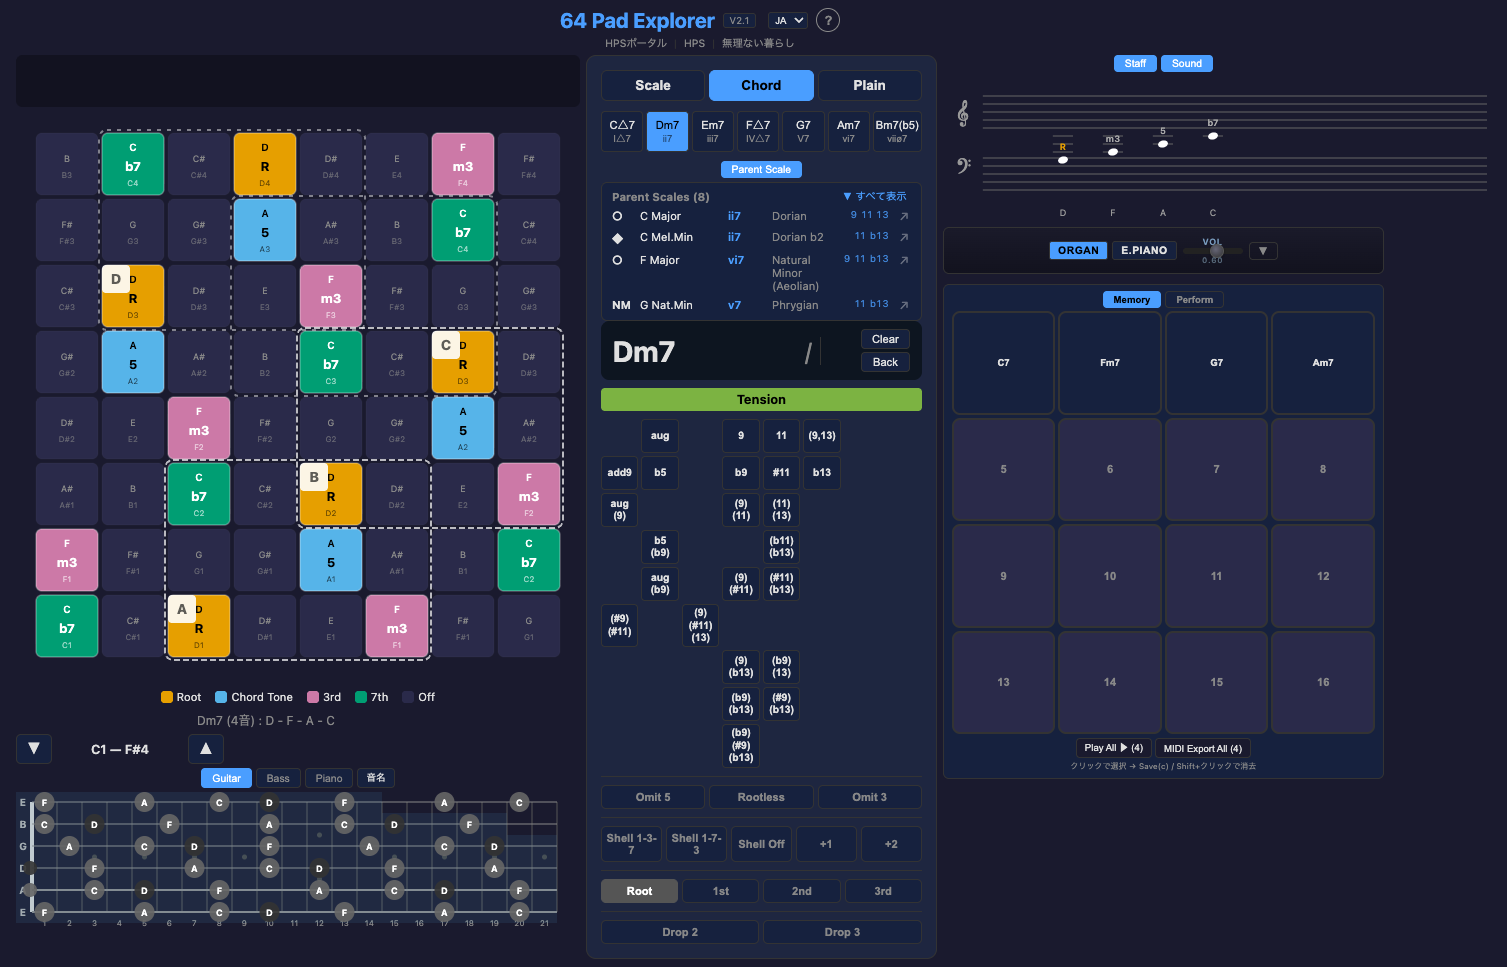
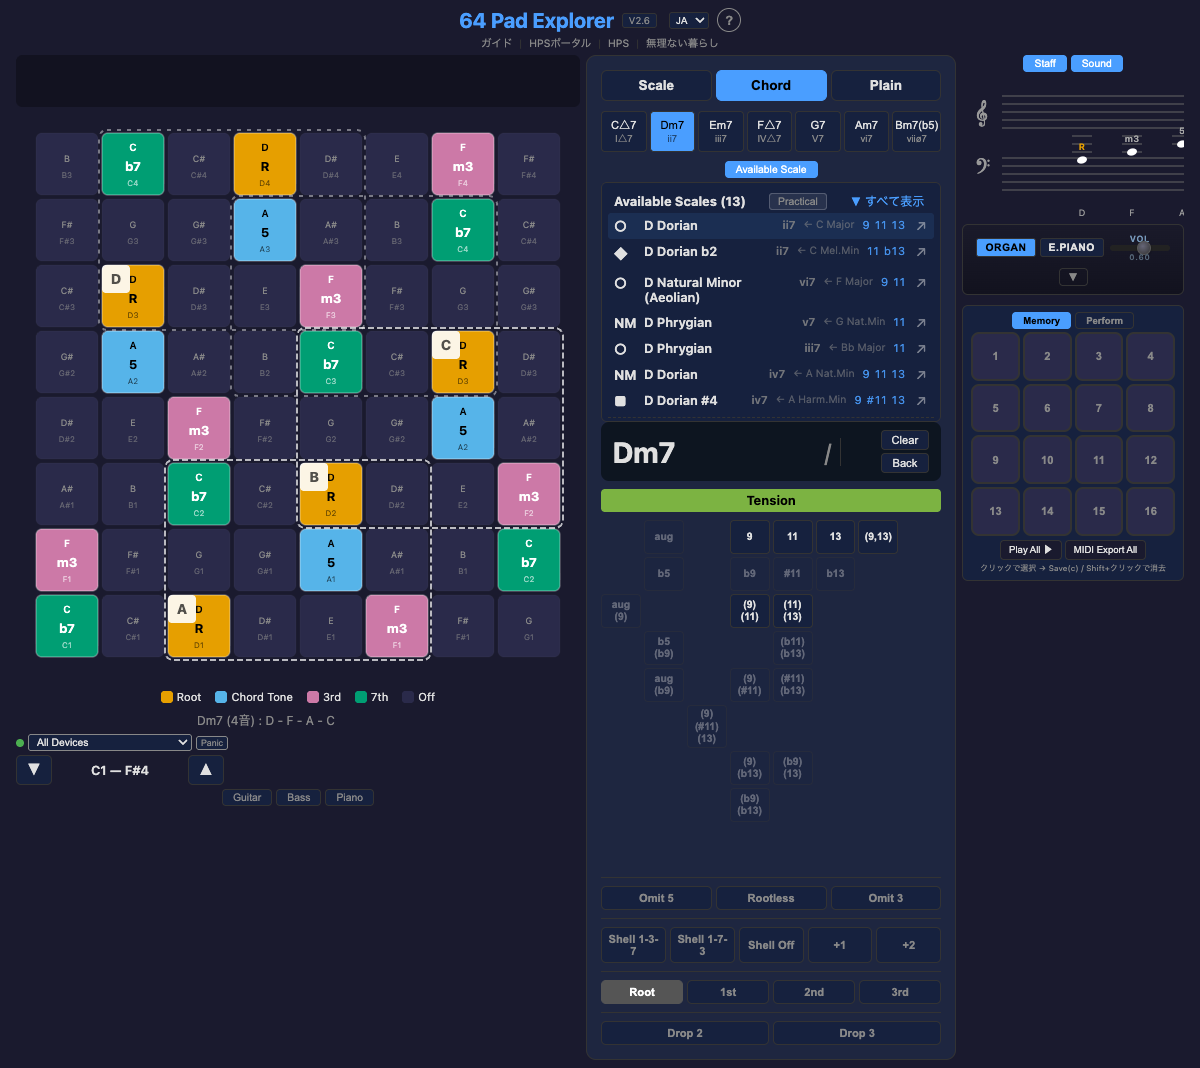
Guide: update screenshot, wording, and version to V2.6
- Replace Available Scale screenshot with Dm7 + D Dorian overlay
- uc5: "即興演奏の練習" → "コードを叩いて進行を確認"
- uc6: "パッドに転写" → "パッドで確認"
- Footer V2.5 → V2.6, cache busts v2.5.0 → v2.6.0
- All 9 language files updated with new translations

diff --git a/lang-ja.js b/lang-ja.js
@@ -195,9 +195,9 @@ I18N.addLang('ja', {
     uc4_a: '\u2192 Available Scale\u30D1\u30CD\u30EB\u3067\u9006\u5F15\u304D\u3002Practical/Diatonic\u30BD\u30FC\u30C8\u3067\u5B9F\u7528\u6027\u9806\u306B\u3082\u4E26\u3079\u66FF\u3048\u53EF\u80FD',
     uc7_q: '\u300C\u8EE2\u8ABF\u5148\u306E\u30AD\u30FC\u3092\u63A2\u3057\u305F\u3044\uFF08\u30D4\u30DC\u30C3\u30C8\u30B3\u30FC\u30C9\uFF09\u300D',
     uc7_a: '\u2192 <span class="mode-badge chord">Chord</span> \u30E2\u30FC\u30C9\u3067\u624B\u52D5\u30B3\u30FC\u30C9\u5165\u529B\u3002\u30C0\u30A4\u30A2\u30C8\u30CB\u30C3\u30AF\u30D0\u30FC\u304C\u6D88\u3048\u3001Available Scale\u304C\u305D\u306E\u30B3\u30FC\u30C9\u306E\u5C5E\u3057\u3046\u308B\u5168\u30AD\u30FC\u3092\u8868\u793A\u3057\u307E\u3059',
-    uc5_q: '\u300C\u30D1\u30C3\u30C9\u3067\u5373\u8208\u6F14\u594F\u306E\u7DF4\u7FD2\u304C\u3057\u305F\u3044\u300D',
-    uc5_a: '\u2192 Perform\u30E2\u30FC\u30C9\u3067\u30E1\u30E2\u30EA\u30FC\u30B9\u30ED\u30C3\u30C8\u306E\u30B3\u30FC\u30C9\u309216\u30D1\u30C3\u30C9\u914D\u7F6E\u3002\u30AD\u30FC\u30DC\u30FC\u30C9\u307E\u305F\u306FMIDI\u30D1\u30C3\u30C9\u3067\u6F14\u594F',
-    uc6_q: '\u300C\u30AE\u30BF\u30FC\u3067\u62BC\u3055\u3048\u305F\u30B3\u30FC\u30C9\u3092\u30D1\u30C3\u30C9\u306B\u8EE2\u5199\u3057\u305F\u3044\u300D',
+    uc5_q: '\u300C\u30B3\u30FC\u30C9\u3092\u53E9\u3044\u3066\u9032\u884C\u3092\u78BA\u8A8D\u3057\u305F\u3044\u300D',
+    uc5_a: '\u2192 \u30E1\u30E2\u30EA\u30FC\u30B9\u30ED\u30C3\u30C8\u306B\u30B3\u30FC\u30C9\u3092\u4FDD\u5B58\u3057\u3066\u3001MIDI\u30B3\u30F3\u30C8\u30ED\u30FC\u30E9\u30FC\u3084PC\u30AD\u30FC\u30DC\u30FC\u30C9\u3067\u53E9\u3044\u3066\u307F\u3066\u304F\u3060\u3055\u3044',
+    uc6_q: '\u300C\u30AE\u30BF\u30FC\u3067\u62BC\u3055\u3048\u305F\u30B3\u30FC\u30C9\u3092\u30D1\u30C3\u30C9\u3067\u78BA\u8A8D\u3057\u305F\u3044\u300D',
     uc6_a: '\u2192 \u30AE\u30BF\u30FC\u30D5\u30EC\u30C3\u30C8\u30DC\u30FC\u30C9\u3092\u30AF\u30EA\u30C3\u30AF\u3057\u3066\u5165\u529B \u2192 \u30D1\u30C3\u30C9\u306B\u81EA\u52D5\u8868\u793A \u2192 \u30B3\u30FC\u30C9\u540D\u3082\u5224\u5B9A',
     quickstart: '\u30AF\u30A4\u30C3\u30AF\u30B9\u30BF\u30FC\u30C8',
     qs_modes: '3\u3064\u306E\u30E2\u30FC\u30C9',
@@ -211,7 +211,7 @@ I18N.addLang('ja', {
     qs_shortcuts: '\u30AD\u30FC\u30DC\u30FC\u30C9\u30B7\u30E7\u30FC\u30C8\u30AB\u30C3\u30C8',
     qs_shortcuts_desc: '<kbd>?</kbd> \u30AD\u30FC\u3067\u5168\u30B7\u30E7\u30FC\u30C8\u30AB\u30C3\u30C8\u4E00\u89A7\u304C\u898B\u3089\u308C\u307E\u3059\u3002<br><kbd>1</kbd>\u301C<kbd>7</kbd> \u3067\u30C0\u30A4\u30A2\u30C8\u30CB\u30C3\u30AF\u30B3\u30FC\u30C9\u9078\u629E\u3001<kbd>\u2191</kbd><kbd>\u2193</kbd> \u3067\u8EE2\u56DE\u5F62\u5207\u66FF\u3001<kbd>\u2190</kbd><kbd>\u2192</kbd> \u3067\u534A\u97F3\u79FB\u52D5\u3002<br>Perform\u30E2\u30FC\u30C9\u3067\u306F <kbd>1234</kbd>/<kbd>qwer</kbd>/<kbd>asdf</kbd>/<kbd>zxcv</kbd> \u306E4\u00D74\u30B0\u30EA\u30C3\u30C9\u3067\u6F14\u594F\u3067\u304D\u307E\u3059\u3002',
     footer_open: '64 Pad Explorer \u3092\u958B\u304F',
-    footer_version: '64 Pad Explorer V2.5 \u2014 HPS (Hardcore Pad Style)',
+    footer_version: '64 Pad Explorer V2.6 \u2014 HPS (Hardcore Pad Style)',
     blog_more: '\u30D6\u30ED\u30B0\u3067\u3082\u3063\u3068\u8A73\u3057\u304F \u2192',
   },
 });

diff --git a/guide.html b/guide.html
@@ -14,7 +14,7 @@
   gtag('js', new Date());
   gtag('config', 'G-ZWTBLDWP7P');
 </script>
-<link rel="stylesheet" href="style.css?v=2.5.0">
+<link rel="stylesheet" href="style.css?v=2.6.0">
 <style>
 /* Guide-specific styles */
 .guide-container {
@@ -338,11 +338,11 @@
       <span class="usecase-a" data-i18n="guide.uc7_a">→ <span class="mode-badge chord">Chord</span> モードで手動コード入力。ダイアトニックバーが消え、Available Scaleがそのコードの属しうる全キーを表示します</span>
     </li>
     <li>
-      <span class="usecase-q" data-i18n="guide.uc5_q">「パッドで即興演奏の練習がしたい」</span>
-      <span class="usecase-a" data-i18n="guide.uc5_a">→ Performモードでメモリースロットのコードを16パッド配置。キーボードまたはMIDIパッドで演奏</span>
+      <span class="usecase-q" data-i18n="guide.uc5_q">「コードを叩いて進行を確認したい」</span>
+      <span class="usecase-a" data-i18n="guide.uc5_a">→ メモリースロットにコードを保存して、MIDIコントローラーやPCキーボードで叩いてみてください</span>
     </li>
     <li>
-      <span class="usecase-q" data-i18n="guide.uc6_q">「ギターで押さえたコードをパッドに転写したい」</span>
+      <span class="usecase-q" data-i18n="guide.uc6_q">「ギターで押さえたコードをパッドで確認したい」</span>
       <span class="usecase-a" data-i18n="guide.uc6_a">→ ギターフレットボードをクリックして入力 → パッドに自動表示 → コード名も判定</span>
     </li>
   </ul>
@@ -387,22 +387,22 @@
     <a href="https://murinaikurashi.com/" data-i18n="header.blog">無理ない暮らし</a>
   </div>
   <a href="https://murinaikurashi.com/" class="blog-link" data-i18n="guide.blog_more">ブログでもっと詳しく →</a>
-  <p style="margin-top:12px;" data-i18n="guide.footer_version">64 Pad Explorer V2.5 — HPS (Hardcore Pad Style)</p>
+  <p style="margin-top:12px;" data-i18n="guide.footer_version">64 Pad Explorer V2.6 — HPS (Hardcore Pad Style)</p>
 </footer>
 
 </div>
 
 <!-- i18n (engine + language files) -->
-<script src="i18n.js?v=2.5.0"></script>
-<script src="lang-en.js?v=2.5.0"></script>
-<script src="lang-ja.js?v=2.5.0"></script>
-<script src="lang-zh.js?v=2.5.0"></script>
-<script src="lang-es.js?v=2.5.0"></script>
-<script src="lang-fr.js?v=2.5.0"></script>
-<script src="lang-pt.js?v=2.5.0"></script>
-<script src="lang-de.js?v=2.5.0"></script>
-<script src="lang-ko.js?v=2.5.0"></script>
-<script src="lang-it.js?v=2.5.0"></script>
+<script src="i18n.js?v=2.6.0"></script>
+<script src="lang-en.js?v=2.6.0"></script>
+<script src="lang-ja.js?v=2.6.0"></script>
+<script src="lang-zh.js?v=2.6.0"></script>
+<script src="lang-es.js?v=2.6.0"></script>
+<script src="lang-fr.js?v=2.6.0"></script>
+<script src="lang-pt.js?v=2.6.0"></script>
+<script src="lang-de.js?v=2.6.0"></script>
+<script src="lang-ko.js?v=2.6.0"></script>
+<script src="lang-it.js?v=2.6.0"></script>
 <script>
   // Initialize i18n for guide page
   document.addEventListener('DOMContentLoaded', function() {

diff --git a/lang-ko.js b/lang-ko.js
@@ -195,9 +195,9 @@ I18N.addLang('ko', {
     uc4_a: '\u2192 Available Scale \uD328\uB110\uC5D0\uC11C \uC5ED\uBC29\uD5A5 \uAC80\uC0C9. Practical/Diatonic \uC815\uB82C \uC804\uD658 \uAC00\uB2A5',
     uc7_q: '\u201C\uC804\uC870\uB97C \uC704\uD55C \uD53C\uBC97 \uCF54\uB4DC\uB97C \uCC3E\uACE0 \uC2F6\uC5B4\uC694\u201D',
     uc7_a: '\u2192 <span class="mode-badge chord">Chord</span> \uBAA8\uB4DC\uC5D0\uC11C \uCF54\uB4DC\uB97C \uC218\uB3D9 \uC785\uB825. \uB2E4\uC774\uC544\uD1A0\uB2C9 \uBC14\uAC00 \uC0AC\uB77C\uC9C0\uACE0 Available Scale\uC774 \uD574\uB2F9 \uCF54\uB4DC\uAC00 \uC18D\uD560 \uC218 \uC788\uB294 \uBAA8\uB4E0 \uD0A4\uB97C \uD45C\uC2DC\uD569\uB2C8\uB2E4',
-    uc5_q: '\u201C\uD328\uB4DC\uC5D0\uC11C \uC989\uD765 \uC5F0\uC2B5\uC744 \uD558\uACE0 \uC2F6\uC5B4\uC694\u201D',
-    uc5_a: '\u2192 Perform Mode\uC5D0\uC11C Memory \uCF54\uB4DC\uB97C 16\uAC1C \uD328\uB4DC\uC5D0 \uBC30\uCE58. \uD0A4\uBCF4\uB4DC \uB610\uB294 MIDI \uD328\uB4DC\uB85C \uC5F0\uC8FC',
-    uc6_q: '\u201C\uAE30\uD0C0 \uCF54\uB4DC\uB97C \uD328\uB4DC\uB85C \uC62E\uAE30\uACE0 \uC2F6\uC5B4\uC694\u201D',
+    uc5_q: '\u201C\uCF54\uB4DC \uC9C4\uD589\uC744 \uCCD0\uC11C \uD655\uC778\uD558\uACE0 \uC2F6\uC5B4\uC694\u201D',
+    uc5_a: '\u2192 \uBA54\uBAA8\uB9AC \uC2AC\uB86F\uC5D0 \uCF54\uB4DC\uB97C \uC800\uC7A5\uD558\uACE0, MIDI \uCEE8\uD2B8\uB864\uB7EC\uB098 PC \uD0A4\uBCF4\uB4DC\uB85C \uCCD0\uBCF4\uC138\uC694',
+    uc6_q: '\u201C\uAE30\uD0C0 \uCF54\uB4DC\uB97C \uD328\uB4DC\uC5D0\uC11C \uD655\uC778\uD558\uACE0 \uC2F6\uC5B4\uC694\u201D',
     uc6_a: '\u2192 \uAE30\uD0C0 \uC9C0\uD310\uC744 \uD074\uB9AD\uD558\uC5EC \uC785\uB825 \u2192 \uC790\uB3D9\uC73C\uB85C \uD328\uB4DC\uC5D0 \uD45C\uC2DC \u2192 \uCF54\uB4DC\uBA85 \uD310\uBCC4',
     quickstart: '\uBE60\uB978 \uC2DC\uC791',
     qs_modes: '3\uAC00\uC9C0 \uBAA8\uB4DC',
@@ -211,7 +211,7 @@ I18N.addLang('ko', {
     qs_shortcuts: '\uD0A4\uBCF4\uB4DC \uB2E8\uCD95\uD0A4',
     qs_shortcuts_desc: '<kbd>?</kbd>\uB97C \uB204\uB974\uBA74 \uC804\uCCB4 \uB2E8\uCD95\uD0A4 \uBAA9\uB85D\uC774 \uD45C\uC2DC\uB429\uB2C8\uB2E4.<br><kbd>1</kbd>\u2013<kbd>7</kbd> \uB2E4\uC774\uC544\uD1A0\uB2C9 \uCF54\uB4DC, <kbd>\u2191</kbd><kbd>\u2193</kbd> Inversions, <kbd>\u2190</kbd><kbd>\u2192</kbd> \uBC18\uC74C \uC774\uB3D9.<br>Perform Mode\uC5D0\uC11C\uB294 <kbd>1234</kbd>/<kbd>qwer</kbd>/<kbd>asdf</kbd>/<kbd>zxcv</kbd>\uB97C 4\u00D74 \uADF8\uB9AC\uB4DC\uB85C \uC0AC\uC6A9.',
     footer_open: '64 Pad Explorer \uC5F4\uAE30',
-    footer_version: '64 Pad Explorer V2.5 \u2014 HPS (Hardcore Pad Style)',
+    footer_version: '64 Pad Explorer V2.6 \u2014 HPS (Hardcore Pad Style)',
     blog_more: '\uBE14\uB85C\uADF8\uC5D0\uC11C \uB354 \uC54C\uC544\uBCF4\uAE30 \u2192',
   },
 });

diff --git a/lang-fr.js b/lang-fr.js
@@ -195,9 +195,9 @@ I18N.addLang('fr', {
     uc4_a: '\u2192 Recherche invers\u00E9e dans le panneau Available Scale. Basculez entre tri Practical/Diatonic',
     uc7_q: '\u00AB Je veux trouver des accords pivot pour la modulation \u00BB',
     uc7_a: '\u2192 Saisissez un accord manuellement en mode <span class="mode-badge chord">Chord</span>. La barre diatonique dispara\u00EEt et Available Scale affiche toutes les tonalit\u00E9s possibles',
-    uc5_q: '\u00AB Je veux m\u0027entra\u00EEner \u00E0 improviser sur les pads \u00BB',
-    uc5_a: '\u2192 Disposez les accords en m\u00E9moire sur 16 pads en Perform mode. Jouez via clavier ou pads MIDI',
-    uc6_q: '\u00AB Je veux transf\u00E9rer un accord de guitare sur les pads \u00BB',
+    uc5_q: '\u00AB Je veux v\u00E9rifier des progressions d\u0027accords en les jouant \u00BB',
+    uc5_a: '\u2192 Sauvegardez les accords dans les slots m\u00E9moire, puis jouez-les avec un contr\u00F4leur MIDI ou le clavier du PC',
+    uc6_q: '\u00AB Je veux v\u00E9rifier un accord de guitare sur les pads \u00BB',
     uc6_a: '\u2192 Cliquez sur le manche de guitare pour saisir \u2192 Affichage automatique sur les pads \u2192 Nom d\u0027accord d\u00E9tect\u00E9',
     quickstart: 'D\u00E9marrage rapide',
     qs_modes: '3 modes',
@@ -211,7 +211,7 @@ I18N.addLang('fr', {
     qs_shortcuts: 'Raccourcis clavier',
     qs_shortcuts_desc: 'Appuyez sur <kbd>?</kbd> pour la liste compl\u00E8te des raccourcis.<br><kbd>1</kbd>\u2013<kbd>7</kbd> pour les accords diatoniques, <kbd>\u2191</kbd><kbd>\u2193</kbd> pour les inversions, <kbd>\u2190</kbd><kbd>\u2192</kbd> pour le mouvement chromatique.<br>En Perform mode, utilisez <kbd>1234</kbd>/<kbd>qwer</kbd>/<kbd>asdf</kbd>/<kbd>zxcv</kbd> comme grille 4\u00D74.',
     footer_open: 'Ouvrir 64 Pad Explorer',
-    footer_version: '64 Pad Explorer V2.5 \u2014 HPS (Hardcore Pad Style)',
+    footer_version: '64 Pad Explorer V2.6 \u2014 HPS (Hardcore Pad Style)',
     blog_more: 'En savoir plus sur le blog \u2192',
   },
 });

diff --git a/lang-de.js b/lang-de.js
@@ -195,9 +195,9 @@ I18N.addLang('de', {
     uc4_a: '\u2192 R\u00FCckw\u00E4rtssuche im Available Scale-Panel. Zwischen Practical/Diatonic-Sortierung umschalten',
     uc7_q: '\u201EIch m\u00F6chte Pivot-Akkorde f\u00FCr die Modulation finden\u201C',
     uc7_a: '\u2192 Akkord manuell im <span class="mode-badge chord">Chord</span>-Modus eingeben. Die diatonische Leiste verschwindet und Available Scale zeigt alle m\u00F6glichen Tonarten',
-    uc5_q: '\u201EIch m\u00F6chte auf den Pads improvisieren \u00FCben\u201C',
-    uc5_a: '\u2192 Memory-Akkorde auf 16 Pads im Perform Mode anordnen. Per Tastatur oder MIDI-Pads spielen',
-    uc6_q: '\u201EIch m\u00F6chte einen Gitarrenakkord auf die Pads \u00FCbertragen\u201C',
+    uc5_q: '\u201EIch m\u00F6chte Akkordfolgen durch Spielen \u00FCberpr\u00FCfen\u201C',
+    uc5_a: '\u2192 Akkorde in Memory-Slots speichern, dann mit MIDI-Controller oder PC-Tastatur spielen',
+    uc6_q: '\u201EIch m\u00F6chte Gitarrenakkorde auf den Pads \u00FCberpr\u00FCfen\u201C',
     uc6_a: '\u2192 Gitarrengriffbrett anklicken zur Eingabe \u2192 Automatisch auf Pads dargestellt \u2192 Akkordname erkannt',
     quickstart: 'Schnellstart',
     qs_modes: '3 Modi',
@@ -211,7 +211,7 @@ I18N.addLang('de', {
     qs_shortcuts: 'Tastenk\u00FCrzel',
     qs_shortcuts_desc: '<kbd>?</kbd> dr\u00FCcken f\u00FCr die vollst\u00E4ndige Tastenk\u00FCrzel-Liste.<br><kbd>1</kbd>\u2013<kbd>7</kbd> f\u00FCr diatonische Akkorde, <kbd>\u2191</kbd><kbd>\u2193</kbd> f\u00FCr Inversions, <kbd>\u2190</kbd><kbd>\u2192</kbd> f\u00FCr chromatische Bewegung.<br>Im Perform Mode <kbd>1234</kbd>/<kbd>qwer</kbd>/<kbd>asdf</kbd>/<kbd>zxcv</kbd> als 4\u00D74-Raster verwenden.',
     footer_open: '64 Pad Explorer \u00F6ffnen',
-    footer_version: '64 Pad Explorer V2.5 \u2014 HPS (Hardcore Pad Style)',
+    footer_version: '64 Pad Explorer V2.6 \u2014 HPS (Hardcore Pad Style)',
     blog_more: 'Mehr erfahren im Blog \u2192',
   },
 });

diff --git a/lang-pt.js b/lang-pt.js
@@ -195,9 +195,9 @@ I18N.addLang('pt', {
     uc4_a: '\u2192 Pesquisa inversa no painel Available Scale. Alterne entre ordena\u00E7\u00E3o Practical/Diatonic',
     uc7_q: '\u00AB Quero encontrar acordes pivot para modula\u00E7\u00E3o \u00BB',
     uc7_a: '\u2192 Insira um acorde manualmente no modo <span class="mode-badge chord">Chord</span>. A barra diat\u00F3nica desaparece e Available Scale mostra todas as tonalidades poss\u00EDveis',
-    uc5_q: '\u00AB Quero praticar improvisa\u00E7\u00E3o nos pads \u00BB',
-    uc5_a: '\u2192 Disponha os acordes em mem\u00F3ria em 16 pads no Perform mode. Toque via teclado ou pads MIDI',
-    uc6_q: '\u00AB Quero transferir um acorde de guitarra para os pads \u00BB',
+    uc5_q: '\u00AB Quero conferir progress\u00F5es de acordes tocando-os \u00BB',
+    uc5_a: '\u2192 Salve os acordes nos slots de mem\u00F3ria e toque-os com um controlador MIDI ou teclado do PC',
+    uc6_q: '\u00AB Quero conferir acordes de guitarra nos pads \u00BB',
     uc6_a: '\u2192 Clique no bra\u00E7o da guitarra para inserir \u2192 Exibi\u00E7\u00E3o autom\u00E1tica nos pads \u2192 Nome do acorde detetado',
     quickstart: 'In\u00EDcio r\u00E1pido',
     qs_modes: '3 modos',
@@ -211,7 +211,7 @@ I18N.addLang('pt', {
     qs_shortcuts: 'Atalhos de teclado',
     qs_shortcuts_desc: 'Prima <kbd>?</kbd> para a lista completa de atalhos.<br><kbd>1</kbd>\u2013<kbd>7</kbd> para acordes diat\u00F3nicos, <kbd>\u2191</kbd><kbd>\u2193</kbd> para invers\u00F5es, <kbd>\u2190</kbd><kbd>\u2192</kbd> para movimento crom\u00E1tico.<br>No Perform mode, use <kbd>1234</kbd>/<kbd>qwer</kbd>/<kbd>asdf</kbd>/<kbd>zxcv</kbd> como grelha 4\u00D74.',
     footer_open: 'Abrir 64 Pad Explorer',
-    footer_version: '64 Pad Explorer V2.5 \u2014 HPS (Hardcore Pad Style)',
+    footer_version: '64 Pad Explorer V2.6 \u2014 HPS (Hardcore Pad Style)',
     blog_more: 'Saiba mais no blog \u2192',
   },
 });

diff --git a/lang-es.js b/lang-es.js
@@ -195,9 +195,9 @@ I18N.addLang('es', {
     uc4_a: '\u2192 B\u00FAsqueda inversa en el panel Available Scale. Alterna entre ordenamiento Practical/Diatonic',
     uc7_q: '"Quiero encontrar acordes pivote para modulaci\u00F3n"',
     uc7_a: '\u2192 Ingresa un acorde manualmente en el modo <span class="mode-badge chord">Chord</span>. La barra diat\u00F3nica desaparece y Available Scale muestra todas las tonalidades posibles',
-    uc5_q: '"Quiero practicar improvisaci\u00F3n en los pads"',
-    uc5_a: '\u2192 Organiza los acordes de memoria en 16 pads en el modo Perform. Toca con teclado o pads MIDI',
-    uc6_q: '"Quiero transferir un acorde de guitarra a los pads"',
+    uc5_q: '"Quiero comprobar progresiones de acordes toc\u00E1ndolos"',
+    uc5_a: '\u2192 Guarda los acordes en los slots de memoria y t\u00F3calos con un controlador MIDI o el teclado del PC',
+    uc6_q: '"Quiero verificar acordes de guitarra en los pads"',
     uc6_a: '\u2192 Haz clic en el diapas\u00F3n de guitarra para ingresar \u2192 Se muestra autom\u00E1ticamente en los pads \u2192 Se detecta el nombre del acorde',
     quickstart: 'Inicio r\u00E1pido',
     qs_modes: '3 modos',
@@ -211,7 +211,7 @@ I18N.addLang('es', {
     qs_shortcuts: 'Atajos de teclado',
     qs_shortcuts_desc: 'Pulsa <kbd>?</kbd> para ver la lista completa de atajos.<br><kbd>1</kbd>\u2013<kbd>7</kbd> para acordes diat\u00F3nicos, <kbd>\u2191</kbd><kbd>\u2193</kbd> para inversiones, <kbd>\u2190</kbd><kbd>\u2192</kbd> para movimiento crom\u00E1tico.<br>En el modo Perform, usa <kbd>1234</kbd>/<kbd>qwer</kbd>/<kbd>asdf</kbd>/<kbd>zxcv</kbd> como cuadr\u00EDcula 4\u00D74.',
     footer_open: 'Abrir 64 Pad Explorer',
-    footer_version: '64 Pad Explorer V2.5 \u2014 HPS (Hardcore Pad Style)',
+    footer_version: '64 Pad Explorer V2.6 \u2014 HPS (Hardcore Pad Style)',
     blog_more: 'M\u00E1s informaci\u00F3n en el blog \u2192',
   },
 });

diff --git a/lang-it.js b/lang-it.js
@@ -195,9 +195,9 @@ I18N.addLang('it', {
     uc4_a: '\u2192 Ricerca inversa nel pannello Available Scale. Alterna tra ordinamento Practical/Diatonic',
     uc7_q: '"Voglio trovare accordi pivot per la modulazione"',
     uc7_a: '\u2192 Inserisci un accordo manualmente in modalit\u00E0 <span class="mode-badge chord">Chord</span>. La barra diatonica scompare e Available Scale mostra tutte le tonalit\u00E0 possibili',
-    uc5_q: '"Voglio esercitarmi a improvvisare sui pad"',
-    uc5_a: '\u2192 Disponi gli accordi in memoria su 16 pad in Perform mode. Suona tramite tastiera o pad MIDI',
-    uc6_q: '"Voglio trasferire un accordo dalla chitarra ai pad"',
+    uc5_q: '"Voglio controllare le progressioni di accordi suonandole"',
+    uc5_a: '\u2192 Salva gli accordi negli slot di memoria, poi suonali con un controller MIDI o la tastiera del PC',
+    uc6_q: '"Voglio verificare un accordo di chitarra sui pad"',
     uc6_a: '\u2192 Clicca sulla tastiera della chitarra per inserire \u2192 Visualizzazione automatica sui pad \u2192 Nome dell\'accordo rilevato',
     quickstart: 'Guida rapida',
     qs_modes: '3 modalit\u00E0',
@@ -211,7 +211,7 @@ I18N.addLang('it', {
     qs_shortcuts: 'Scorciatoie da tastiera',
     qs_shortcuts_desc: 'Premi <kbd>?</kbd> per l\'elenco completo delle scorciatoie.<br><kbd>1</kbd>\u2013<kbd>7</kbd> per accordi diatonici, <kbd>\u2191</kbd><kbd>\u2193</kbd> per rivolti, <kbd>\u2190</kbd><kbd>\u2192</kbd> per movimento cromatico.<br>In Perform mode, usa <kbd>1234</kbd>/<kbd>qwer</kbd>/<kbd>asdf</kbd>/<kbd>zxcv</kbd> come griglia 4\u00D74.',
     footer_open: 'Apri 64 Pad Explorer',
-    footer_version: '64 Pad Explorer V2.5 \u2014 HPS (Hardcore Pad Style)',
+    footer_version: '64 Pad Explorer V2.6 \u2014 HPS (Hardcore Pad Style)',
     blog_more: 'Scopri di pi\u00F9 sul blog \u2192',
   },
 });

diff --git a/lang-en.js b/lang-en.js
@@ -195,9 +195,9 @@ I18N.addLang('en', {
     uc4_a: '\u2192 Reverse-lookup in the Available Scale panel. Switch between Practical/Diatonic sort for usability ordering',
     uc7_q: '"I want to find pivot chords for modulation"',
     uc7_a: '\u2192 Manually input a chord in <span class="mode-badge chord">Chord</span> mode. The diatonic bar disappears and Available Scale shows all keys your chord could belong to',
-    uc5_q: '"I want to practice improvising on pads"',
-    uc5_a: '\u2192 Arrange memory chords on 16 pads in Perform mode. Play via keyboard or MIDI pads',
-    uc6_q: '"I want to transfer a guitar chord to pads"',
+    uc5_q: '"I want to check chord progressions by playing them"',
+    uc5_a: '\u2192 Save chords to memory slots, then play them with a MIDI controller or PC keyboard',
+    uc6_q: '"I want to check guitar chords on the pads"',
     uc6_a: '\u2192 Click guitar fretboard to input \u2192 Auto-displayed on pads \u2192 Chord name detected',
     quickstart: 'Quick Start',
     qs_modes: '3 Modes',
@@ -211,7 +211,7 @@ I18N.addLang('en', {
     qs_shortcuts: 'Keyboard Shortcuts',
     qs_shortcuts_desc: 'Press <kbd>?</kbd> for the full shortcut list.<br><kbd>1</kbd>\u2013<kbd>7</kbd> for diatonic chords, <kbd>\u2191</kbd><kbd>\u2193</kbd> for inversions, <kbd>\u2190</kbd><kbd>\u2192</kbd> for chromatic movement.<br>In Perform mode, use <kbd>1234</kbd>/<kbd>qwer</kbd>/<kbd>asdf</kbd>/<kbd>zxcv</kbd> as a 4\u00D74 grid.',
     footer_open: 'Open 64 Pad Explorer',
-    footer_version: '64 Pad Explorer V2.5 \u2014 HPS (Hardcore Pad Style)',
+    footer_version: '64 Pad Explorer V2.6 \u2014 HPS (Hardcore Pad Style)',
     blog_more: 'Learn more on the blog \u2192',
   },
 });

diff --git a/lang-zh.js b/lang-zh.js
@@ -195,9 +195,9 @@ I18N.addLang('zh', {
     uc4_a: '\u2192 在Available Scale面板中反向查找。可切换Practical/Diatonic排序按实用性排列',
     uc7_q: '"我想找到转调的枢纽和弦"',
     uc7_a: '\u2192 在<span class="mode-badge chord">Chord</span>模式中手动输入和弦。自然和弦条消失，Available Scale显示该和弦可能属于的所有调',
-    uc5_q: '"我想在打击垫上练习即兴演奏"',
-    uc5_a: '\u2192 在Perform模式中将记忆和弦排列在16个打击垫上。通过键盘或MIDI打击垫演奏',
-    uc6_q: '"我想把吉他和弦转换到打击垫上"',
+    uc5_q: '"我想通过弹奏来确认和弦进行"',
+    uc5_a: '\u2192 将和弦保存到记忆槽，然后用MIDI控制器或PC键盘弹奏试试',
+    uc6_q: '"我想在打击垫上确认吉他和弦"',
     uc6_a: '\u2192 点击吉他指板输入 \u2192 自动显示在打击垫上 \u2192 检测和弦名称',
     quickstart: '快速入门',
     qs_modes: '3种模式',
@@ -211,7 +211,7 @@ I18N.addLang('zh', {
     qs_shortcuts: '键盘快捷键',
     qs_shortcuts_desc: '按<kbd>?</kbd>查看完整快捷键列表。<br><kbd>1</kbd>\u2013<kbd>7</kbd>选择自然和弦，<kbd>\u2191</kbd><kbd>\u2193</kbd>切换转位，<kbd>\u2190</kbd><kbd>\u2192</kbd>半音移动。<br>在Perform模式中，使用<kbd>1234</kbd>/<kbd>qwer</kbd>/<kbd>asdf</kbd>/<kbd>zxcv</kbd>作为4\u00D74网格。',
     footer_open: '打开64 Pad Explorer',
-    footer_version: '64 Pad Explorer V2.5 \u2014 HPS (Hardcore Pad Style)',
+    footer_version: '64 Pad Explorer V2.6 \u2014 HPS (Hardcore Pad Style)',
     blog_more: '在博客上了解更多 \u2192',
   },
 });
